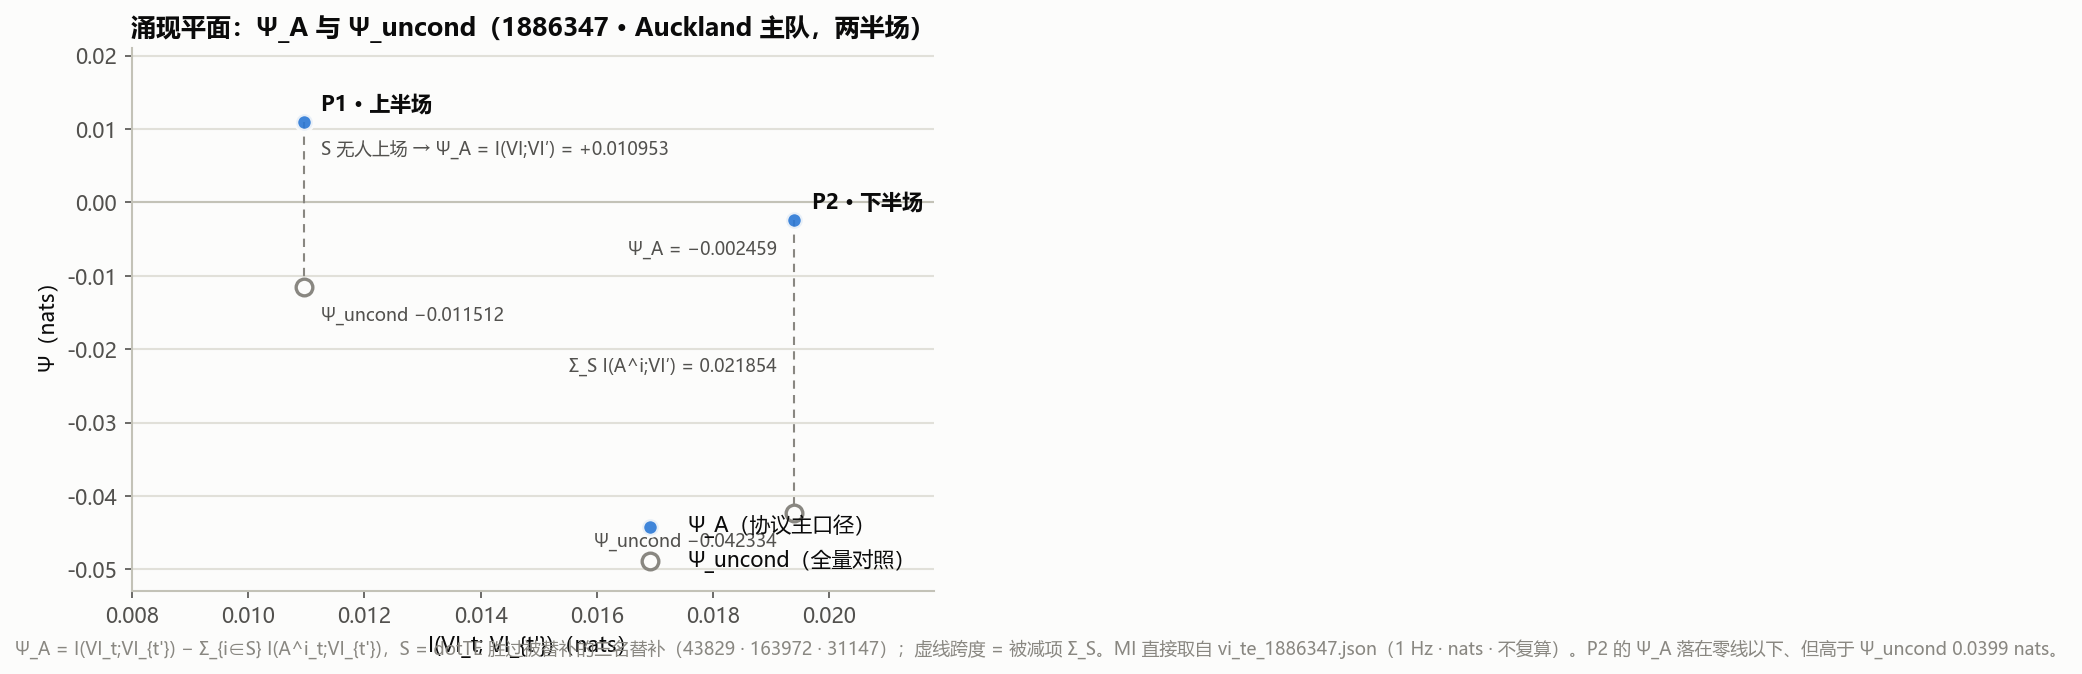
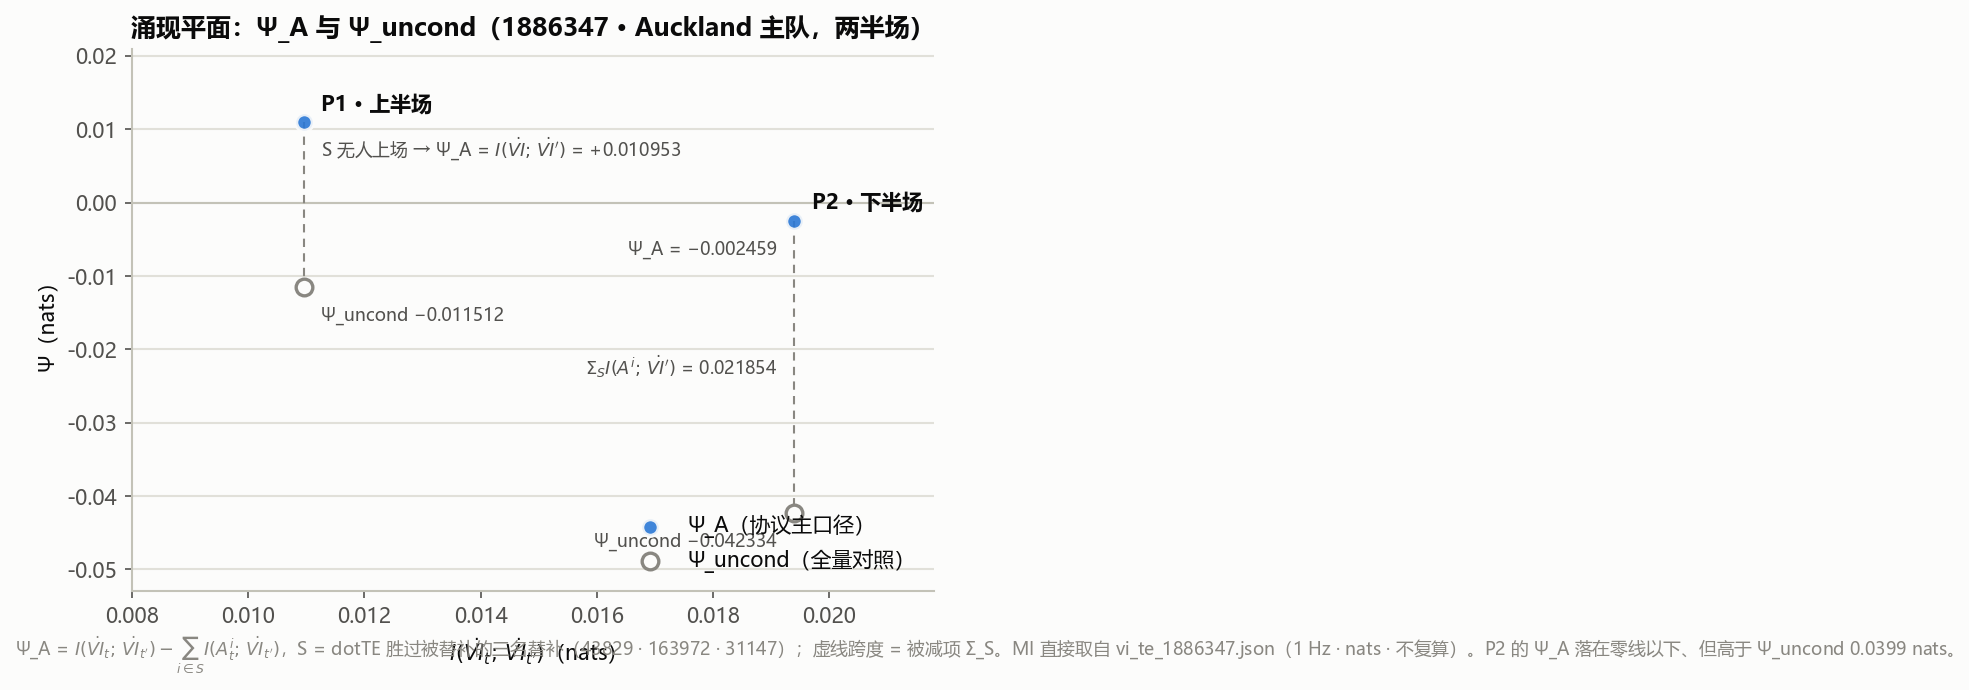
Add Pereira et al. 2021 citation and dot the VI in causal-emergence formulas
- README: cite Pereira et al. 2021 (Chaos, Solitons & Fractals 152:111356, DOI linked),
  the source of Variation of Information; rename the macro variable to information
  variation rate $\dot{VI}$ in Goal and the $\Psi_A(\dot{VI})$ bridge formula
- PROTOCOL sec.15: $\Psi_A(\dot{VI}) := I(\dot{VI}_t;\dot{VI}_{t'}) - \sum_{i\in S}
  I(A^i_t;\dot{VI}_{t'})$, terminology note (data files keep identifier VI), mermaid
- sub_gain.py: dotted template formulas + terminology note + visualization section
  now script-generated; regenerate sub_gain_report.md (numbers unchanged:
  P2 = 0.019395 - 0.021854 = -0.002459 nats)
- sub_figures.py: figure formulas via matplotlib mathtext ($\dot{VI}$), regenerate
  sub1/sub4 PNGs; pipeline_report.md dotted accordingly

diff --git a/te_emergence/sub_figures.py b/te_emergence/sub_figures.py
@@ -1,4 +1,4 @@
-"""dotTE / Ψ_A(VI) 管线结果图（sub1–sub4，PNG，随仓库发布）。
+"""dotTE / Ψ_A(V̇I) 管线结果图（sub1–sub4，PNG，随仓库发布）。
 
 与 te_emergence.figures 同一设计系统：SURFACE/INK 墨色 token、发丝 y 网格、
 ≥8px 标记 + 2px 表面环、2px 线、文本一律墨色 token（不用序列色）、
@@ -12,10 +12,10 @@
 - results/vi_te_1886347.json           halves.home|{1,2}.psi（nats）
 
 图：
-- sub1_emergence_plane   Ψ vs I(VI_t;VI_{t'})：Ψ_A 主口径 vs Ψ_uncond 全量对照（P1/P2）
+- sub1_emergence_plane   Ψ vs I(V̇I_t;V̇I_{t'})：Ψ_A 主口径 vs Ψ_uncond 全量对照（P1/P2）
 - sub2_dot_te_dumbbell   3 换人对哑铃：替补 vs 被替补 dotTE（bits/min）+ Δ
 - sub3_pair_scatter      42 有效对 TE_eff vs 源在场分钟（替补/被替补着色 + 短窗区标注）
-- sub4_psi_waterfall     Ψ_A 瀑布分解：i_macro − Σ_S I(A^i;VI')（P1/P2 两面板）
+- sub4_psi_waterfall     Ψ_A 瀑布分解：i_macro − Σ_S I(A^i;V̇I′）（P1/P2 两面板）
 
 用法：
     python -m te_emergence.sub_figures \
@@ -66,7 +66,7 @@ def _save(fig, out_dir: Path, name: str) -> Path:
 
 # ------------------------------------------------------------------ sub1 涌现平面
 def sub1_emergence_plane(psi: dict, out_dir: Path) -> Path:
-    """Ψ vs I(VI_t;VI_{t'})：每半场一个点，Ψ_A（主口径）与 Ψ_uncond（对照）成对。"""
+    """Ψ vs I(V̇I_t;V̇I_{t'})：每半场一个点，Ψ_A（主口径）与 Ψ_uncond（对照）成对。"""
     fig, ax = plt.subplots(figsize=(6.9, 4.7))
     ax.axhline(0, color=BASE, linewidth=1.0)
 
@@ -89,7 +89,7 @@ def sub1_emergence_plane(psi: dict, out_dir: Path) -> Path:
 
     ax.text(xs[0] + 0.0003, ya[0] + 0.0016, "P1 · 上半场", color=INK,
             fontweight="bold", fontsize=10)
-    ax.text(xs[0] + 0.0003, ya[0] - 0.0046, "S 无人上场 → Ψ_A = I(VI;VI′) = +0.010953",
+    ax.text(xs[0] + 0.0003, ya[0] - 0.0046, r"S 无人上场 → Ψ_A = $I(\dot{VI};\,\dot{VI}')$ = +0.010953",
             color=INK2, fontsize=8.5)
     ax.text(xs[0] + 0.0003, yu[0] - 0.0046, "Ψ_uncond −0.011512",
             color=INK2, fontsize=8.5)
@@ -97,20 +97,20 @@ def sub1_emergence_plane(psi: dict, out_dir: Path) -> Path:
             fontweight="bold", fontsize=10)
     ax.text(xs[1] - 0.0003, ya[1] - 0.0046, "Ψ_A = −0.002459",
             color=INK2, fontsize=8.5, ha="right")
-    ax.text(xs[1] - 0.0003, (ya[1] + yu[1]) / 2, "Σ_S I(A^i;VI′) = 0.021854",
+    ax.text(xs[1] - 0.0003, (ya[1] + yu[1]) / 2, r"$\Sigma_S I(A^i;\,\dot{VI}')$ = 0.021854",
             color=INK2, fontsize=8.5, va="center", ha="right")
     ax.text(xs[1] - 0.0003, yu[1] - 0.0046, "Ψ_uncond −0.042334",
             color=INK2, fontsize=8.5, ha="right")
 
     ax.set_xlim(0.0080, 0.0218)
     ax.set_ylim(-0.0530, 0.0210)
-    ax.set_xlabel("I(VI_t; VI_{t'})（nats）")
+    ax.set_xlabel(r"$I(\dot{VI}_t;\,\dot{VI}_{t'})$（nats）")
     ax.set_ylabel("Ψ（nats）")
     ax.set_title("涌现平面：Ψ_A 与 Ψ_uncond（1886347 · Auckland 主队，两半场）")
     ax.legend(loc="lower right", frameon=False)
     _style_ax(ax)
     fig.text(0.012, 0.02,
-             "Ψ_A = I(VI_t;VI_{t'}) − Σ_{i∈S} I(A^i_t;VI_{t'})，S = dotTE 胜过被替补的"
+             r"Ψ_A = $I(\dot{VI}_t;\,\dot{VI}_{t'}) - \sum_{i\in S} I(A^i_t;\,\dot{VI}_{t'})$，S = dotTE 胜过被替补的"
              "三名替补（43829 · 163972 · 31147）；虚线跨度 = 被减项 Σ_S。MI 直接取自 "
              "vi_te_1886347.json（1 Hz · nats · 不复算）。P2 的 Ψ_A 落在零线以下、"
              "但高于 Ψ_uncond 0.0399 nats。",
@@ -201,9 +201,9 @@ def sub3_pair_scatter(valid: pd.DataFrame, out_dir: Path) -> Path:
 
 # ------------------------------------------------------------------ sub4 Ψ_A 瀑布
 def sub4_psi_waterfall(psi: dict, out_dir: Path) -> Path:
-    """Ψ_A 减法分解（P1/P2 两面板，共享 y）：i_macro − Σ_S I(A^i;VI′) = Ψ_A。"""
+    """Ψ_A 减法分解（P1/P2 两面板，共享 y）：i_macro − Σ_S I(A^i;V̇I′) = Ψ_A。"""
     fig, axes = plt.subplots(1, 2, figsize=(10.8, 4.6), sharey=True)
-    fig.suptitle("Ψ_A(VI) 瀑布分解：I(VI_t;VI_{t'}) − Σ_{i∈S} I(A^i_t;VI_{t'})（nats）",
+    fig.suptitle(r"$\Psi_A(\dot{VI})$ 瀑布分解：$I(\dot{VI}_t;\,\dot{VI}_{t'}) - \sum_{i\in S} I(A^i_t;\,\dot{VI}_{t'})$（nats）",
                  y=1.02)
     subs_order = [43829, 163972, 31147]
     panels = [("P1 · 上半场（S 无人上场）", "home|1"),
@@ -217,7 +217,7 @@ def sub4_psi_waterfall(psi: dict, out_dir: Path) -> Path:
         psi_a = im - sum(contribs)
         heights = [im] + [-c for c in contribs] + [psi_a]
         colors = [BLUE] + [ORANGE] * len(contribs) + [AQUA]
-        labels = ["I(VI;VI′)"] + [f"{_NAME[s]}\n{s}" for s in subs_order] + ["Ψ_A"]
+        labels = [r"$I(\dot{VI};\,\dot{VI}')$"] + [f"{_NAME[s]}\n{s}" for s in subs_order] + ["Ψ_A"]
 
         ax.set_ylim(*ylim)
         ax.axhline(0, color=BASE, linewidth=1.0)
@@ -241,14 +241,14 @@ def sub4_psi_waterfall(psi: dict, out_dir: Path) -> Path:
 
     axes[0].set_ylabel("nats")
     axes[1].legend(handles=[
-        Patch(facecolor=BLUE, label="I(VI_t;VI_{t'}) 总 MI"),
-        Patch(facecolor=ORANGE, label="S 成员 I(A^i_t;VI_{t'})（被减）"),
+        Patch(facecolor=BLUE, label=r"$I(\dot{VI}_t;\,\dot{VI}_{t'})$ 总 MI"),
+        Patch(facecolor=ORANGE, label=r"S 成员 $I(A^i_t;\,\dot{VI}_{t'})$（被减）"),
         Patch(facecolor=AQUA, label="Ψ_A 净额"),
     ], loc="upper right", frameon=False, fontsize=8.5)
     fig.text(0.012, 0.02,
              "P2：0.019395 − 0.003014 − 0.010100 − 0.008739 = −0.002459 nats；"
              "虚线 = Ψ_uncond 全量对照（P2 −0.042334，Ψ_A 相对其回升 +0.0399）。"
-             "P1 替补未上场，Ψ_A = I(VI;VI′)。MI 直接取自 vi_te_1886347.json，"
+             r"P1 替补未上场，Ψ_A = $I(\dot{VI};\,\dot{VI}')$。MI 直接取自 vi_te_1886347.json，"
              "本模块只做减法。",
              color=MUTED, fontsize=8.5)
     return _save(fig, out_dir, "sub4_psi_waterfall.png")
@@ -268,7 +268,7 @@ def make_figures(dot_te_csv: Path, summary_json: Path, vi_json: Path,
 
 
 if __name__ == "__main__":
-    ap = argparse.ArgumentParser(description="dotTE / Ψ_A(VI) 管线结果图（sub1–sub4）")
+    ap = argparse.ArgumentParser(description="dotTE / Ψ_A(V̇I) 管线结果图（sub1–sub4）")
     ap.add_argument("--dot-te", default="results/subs_te/dot_te.csv")
     ap.add_argument("--summary", default="results/subs_te/subs_te_summary.json")
     ap.add_argument("--vi-json", default="results/vi_te_1886347.json")

diff --git a/te_emergence/sub_gain.py b/te_emergence/sub_gain.py
@@ -1,10 +1,11 @@
-"""替补信息增益 → Ψ_A(VI)（GVRNN计算协议.txt 的换人桥接）。
+"""替补信息增益 → Ψ_A(V̇I)（GVRNN计算协议.txt 的换人桥接）。
 
 协议定义：
-    S   = { dotTE(ax') − dotTE(ax) > 0 }    （TE 上胜过首发的替补）
-    Ψ_A(VI) := I(VI_t; VI_{t'}) − Σ_{i∈S} I(A_t^i; VI_{t'})
+    S       = { 替补 p : dotTE(p) > dotTE(被替换首发(p)) }（TE 上胜过首发的替补）
+    Ψ_A(V̇I) := I(V̇I_t; V̇I_{t'}) − Σ_{i∈S} I(A^i_t; V̇I_{t'})
 
-其中 I(VI_t; VI_{t'}) 与每球员 I(A_t^i; VI_{t'}) 直接取自 vi-te 仓库
+其中 V̇I 为信息变差率（逐样本 Variation of Information，Pereira et al. 2021，
+vi-te 数据文件中记作 VI）；I(V̇I_t; V̇I_{t'}) 与每球员 I(A^i_t; V̇I_{t'}) 直接取自 vi-te 仓库
 run_all 产出的 vi_te_<match>.json → halves["home|1"/"home|2"].psi
 （i_macro_nats / per_player_mi_nats，1 Hz 全局口径），本模块只做减法，
 不复算任何 MI。替补只在比赛末段（下半场）出场 → 上半场 S 交集为空，
@@ -41,7 +42,7 @@ def load_psi(vi_json: Path, team: str = "home"):
 
 
 def psi_a(half: dict, winners: list) -> dict:
-    """Ψ_A(VI) = i_macro − Σ_{k∈S∩half} I(A^k; VI') for one half."""
+    """Ψ_A(V̇I) = i_macro − Σ_{k∈S∩half} I(A^k; V̇I′) for one half."""
     on_pitch = [w for w in winners if w in half["per_player_mi_nats"]]
     absent = [w for w in winners if w not in half["per_player_mi_nats"]]
     sub = {w: half["per_player_mi_nats"][w] for w in on_pitch}
@@ -71,17 +72,20 @@ def main(argv=None):
 
     res = {p: psi_a(psi[p], winners) for p in ("1", "2")}
     L = []
-    L.append("# Ψ_A(VI)：替补信息增益与比赛宏观动态的因果涌现（GVRNN 计算协议）\n")
+    L.append("# Ψ_A(V̇I)：替补信息增益与比赛宏观动态的因果涌现（GVRNN 计算协议）\n")
     L.append(f"- VI 数据：`{args.vi_json}`（home|1 / home|2，1 Hz，MI 单位 nats）\n"
              f"- dotTE 数据：`{args.subs_summary}`\n\n")
     L.append("## 1. 协议公式\n\n"
-             "$$S = \\{\\dot{TE}(ax') - \\dot{TE}(ax) > 0\\}$$\n\n"
-             "$$\\Psi_A(VI) := I(VI_t; VI_{t'}) - \\sum_{i \\in S} I(A_t^i; VI_{t'})$$\n\n"
-             "- `dotTE(p)`：p 对全部共同在场队友的 TE_eff 之和 ÷ 在场跟踪分钟"
+             "$$S = \\left\\{\\ \\text{sub}\\ p : \\dot{TE}(p) > \\dot{TE}(\\text{starter}(p))\\ \\right\\}$$\n\n"
+             "$$\\Psi_A(\\dot{VI}) := I(\\dot{VI}_t; \\dot{VI}_{t'}) - \\sum_{i \\in S} I(A^i_t; \\dot{VI}_{t'})$$\n\n"
+             "> 术语：宏观变量为**信息变差率** $\\dot{VI}$ （逐样本 Variation of Information，"
+             "Pereira et al. 2021）；vi-te 数据文件中记作 `VI`（i_macro / per_player_mi "
+             "字段），下文符号注解中的 `I(VI_t; VI_{t'})` 即 $I(\\dot{VI}_t; \\dot{VI}_{t'})$ 。\n\n"
+             "- `dotTE(p)`（带权成对转移熵 $\\dot{TE}$ ）：p 对全部共同在场队友的 TE_eff 之和 ÷ 在场跟踪分钟"
              "（见 dot_te_report.md）。\n"
              "- `S`：TE 上胜过所替换首发的**替补**集合。\n"
-             "- `I(VI_t; VI_{t'})`：i_macro_nats——全队 VI 链的一步自预测信息。\n"
-             "- `I(A_t^i; VI_{t'})`：per_player_mi_nats——球员 i 对 VI 下一步的"
+             "- `I(VI_t; VI_{t'})`：i_macro_nats——全队信息变差率链的一步自预测信息。\n"
+             "- `I(A^i_t; VI_{t'})`：per_player_mi_nats——球员 i 对信息变差率下一步的"
              "互信息（vi-te 半场全局口径，不复算）。\n"
              "- 替补只在下半场出场 → 上半场 S 交集为空，Ψ_A(P1) = i_macro 原值。\n\n")
     L.append("## 2. S 判定（dotTE 差值）\n\n")
@@ -91,8 +95,8 @@ def main(argv=None):
         L.append(f"| {e['sub']} | {e['starter']} | {e['sub_dot_te']:.6f} | "
                  f"{e['starter_dot_te']:.6f} | {e['diff']:+.6f} |\n")
     L.append(f"\n**S = {winners if winners else '∅（无替补胜出）'}**\n\n")
-    L.append("## 3. Ψ_A(VI) 计算\n\n")
-    L.append("| 半场 | i_macro | S 中在场者 | 减项合计 | **Ψ_A(VI)** | "
+    L.append("## 3. Ψ_A(V̇I) 计算\n\n")
+    L.append("| 半场 | i_macro | S 中在场者 | 减项合计 | **Ψ_A(V̇I)** | "
              "全量 Ψ_uncond（对照） | Δ(Ψ_A − Ψ) |\n"
              "|---|---|---|---|---|---|---|\n")
     for p in ("1", "2"):
@@ -118,8 +122,18 @@ def main(argv=None):
              "- `per_player_mi`（= I(A^i_t; VI_{t'})）：球员 i 与 VI 下一步的"
              "无条件互信息，nats/步，按半场全局计算。\n"
              "- `Ψ_uncond`：全量口径涌现 = i_macro − Σ_{10 人} MI（vi 项目 Task 2）。\n"
-             "- `Ψ_A(VI)`：协议口径 = i_macro − Σ_{i∈S} MI。\n"
+             "- `Ψ_A(V̇I)`：协议口径 = i_macro − Σ_{i∈S} MI。\n"
              "- 单位：nats（×1.4427 → bits）。\n")
+    L.append("\n## 6. 结果可视化\n\n"
+             "（由 `te_emergence/sub_figures.py` 生成，`results/subs_te/figures/`，"
+             "与 `te_emergence/figures` 同一设计系统）\n\n"
+             "- **图 1 · 涌现平面**：Ψ_A（主口径，蓝）与 Ψ_uncond（全量对照，灰）"
+             "对 I(V̇I_t; V̇I_{t'})，P1/P2 两半场，虚线跨度 = Σ_S I(A^i; V̇I′)\n\n"
+             "  ![sub1 涌现平面](figures/sub1_emergence_plane.png)\n\n"
+             "- **图 4 · Ψ_A 瀑布**：I(V̇I_t; V̇I_{t'}) − Σ_{i∈S} I(A^i_t; V̇I_{t'}) "
+             "的减法分解（P1/P2 两面板，nats），虚线 = Ψ_uncond 对照\n\n"
+             "  ![sub4 Ψ_A 瀑布](figures/sub4_psi_waterfall.png)\n\n"
+             "（四张图的汇总版见 [pipeline_report.md](pipeline_report.md)）\n")
     out = Path(args.out)
     out.parent.mkdir(parents=True, exist_ok=True)
     out.write_text("".join(L), encoding="utf-8")

diff --git a/results/subs_te/sub_gain_report.md b/results/subs_te/sub_gain_report.md
@@ -1,17 +1,19 @@
-# Ψ_A(VI)：替补信息增益与比赛宏观动态的因果涌现（GVRNN 计算协议）
-- VI 数据：`D:\gvrnn-te\results\vi_te_1886347.json`（home|1 / home|2，1 Hz，MI 单位 nats）
-- dotTE 数据：`D:\gvrnn-te\results\subs_te\subs_te_summary.json`
+# Ψ_A(V̇I)：替补信息增益与比赛宏观动态的因果涌现（GVRNN 计算协议）
+- VI 数据：`results\vi_te_1886347.json`（home|1 / home|2，1 Hz，MI 单位 nats）
+- dotTE 数据：`results\subs_te\subs_te_summary.json`
 
 ## 1. 协议公式
 
-$$S = \{\dot{TE}(ax') - \dot{TE}(ax) > 0\}$$
+$$S = \left\{\ \text{sub}\ p : \dot{TE}(p) > \dot{TE}(\text{starter}(p))\ \right\}$$
 
-$$\Psi_A(VI) := I(VI_t; VI_{t'}) - \sum_{i \in S} I(A_t^i; VI_{t'})$$
+$$\Psi_A(\dot{VI}) := I(\dot{VI}_t; \dot{VI}_{t'}) - \sum_{i \in S} I(A^i_t; \dot{VI}_{t'})$$
 
-- `dotTE(p)`：p 对全部共同在场队友的 TE_eff 之和 ÷ 在场跟踪分钟（见 dot_te_report.md）。
+> 术语：宏观变量为**信息变差率** $\dot{VI}$ （逐样本 Variation of Information，Pereira et al. 2021）；vi-te 数据文件中记作 `VI`（i_macro / per_player_mi 字段），下文符号注解中的 `I(VI_t; VI_{t'})` 即 $I(\dot{VI}_t; \dot{VI}_{t'})$ 。
+
+- `dotTE(p)`（带权成对转移熵 $\dot{TE}$ ）：p 对全部共同在场队友的 TE_eff 之和 ÷ 在场跟踪分钟（见 dot_te_report.md）。
 - `S`：TE 上胜过所替换首发的**替补**集合。
-- `I(VI_t; VI_{t'})`：i_macro_nats——全队 VI 链的一步自预测信息。
-- `I(A_t^i; VI_{t'})`：per_player_mi_nats——球员 i 对 VI 下一步的互信息（vi-te 半场全局口径，不复算）。
+- `I(VI_t; VI_{t'})`：i_macro_nats——全队信息变差率链的一步自预测信息。
+- `I(A^i_t; VI_{t'})`：per_player_mi_nats——球员 i 对信息变差率下一步的互信息（vi-te 半场全局口径，不复算）。
 - 替补只在下半场出场 → 上半场 S 交集为空，Ψ_A(P1) = i_macro 原值。
 
 ## 2. S 判定（dotTE 差值）
@@ -24,9 +26,9 @@ $$\Psi_A(VI) := I(VI_t; VI_{t'}) - \sum_{i \in S} I(A_t^i; VI_{t'})$$
 
 **S = [43829, 163972, 31147]**
 
-## 3. Ψ_A(VI) 计算
+## 3. Ψ_A(V̇I) 计算
 
-| 半场 | i_macro | S 中在场者 | 减项合计 | **Ψ_A(VI)** | 全量 Ψ_uncond（对照） | Δ(Ψ_A − Ψ) |
+| 半场 | i_macro | S 中在场者 | 减项合计 | **Ψ_A(V̇I)** | 全量 Ψ_uncond（对照） | Δ(Ψ_A − Ψ) |
 |---|---|---|---|---|---|---|
 | P1 | 0.01095 | ∅ | 0.00000 | **0.01095** | -0.01151 | +0.02247 |
 | P2 | 0.01940 | [43829, 163972, 31147] | 0.02185 | **-0.00246** | -0.04233 | +0.03987 |
@@ -47,18 +49,18 @@ $$\Psi_A(VI) := I(VI_t; VI_{t'}) - \sum_{i \in S} I(A_t^i; VI_{t'})$$
 - `i_macro`（= I(VI_t; VI_{t'})）：全队 VI 自预测互信息，nats/步。
 - `per_player_mi`（= I(A^i_t; VI_{t'})）：球员 i 与 VI 下一步的无条件互信息，nats/步，按半场全局计算。
 - `Ψ_uncond`：全量口径涌现 = i_macro − Σ_{10 人} MI（vi 项目 Task 2）。
-- `Ψ_A(VI)`：协议口径 = i_macro − Σ_{i∈S} MI。
+- `Ψ_A(V̇I)`：协议口径 = i_macro − Σ_{i∈S} MI。
 - 单位：nats（×1.4427 → bits）。
 
 ## 6. 结果可视化
 
 （由 `te_emergence/sub_figures.py` 生成，`results/subs_te/figures/`，与 `te_emergence/figures` 同一设计系统）
 
-- **图 1 · 涌现平面**：Ψ_A（主口径，蓝）与 Ψ_uncond（全量对照，灰）对 I(VI_t;VI_{t'})，P1/P2 两半场，虚线跨度 = Σ_S I(A^i;VI′)
+- **图 1 · 涌现平面**：Ψ_A（主口径，蓝）与 Ψ_uncond（全量对照，灰）对 I(V̇I_t; V̇I_{t'})，P1/P2 两半场，虚线跨度 = Σ_S I(A^i; V̇I′)
 
   ![sub1 涌现平面](figures/sub1_emergence_plane.png)
 
-- **图 4 · Ψ_A 瀑布**：I(VI_t;VI_{t'}) − Σ_{i∈S} I(A^i_t;VI_{t'}) 的减法分解（P1/P2 两面板，nats），虚线 = Ψ_uncond 对照
+- **图 4 · Ψ_A 瀑布**：I(V̇I_t; V̇I_{t'}) − Σ_{i∈S} I(A^i_t; V̇I_{t'}) 的减法分解（P1/P2 两面板，nats），虚线 = Ψ_uncond 对照
 
   ![sub4 Ψ_A 瀑布](figures/sub4_psi_waterfall.png)
 

diff --git a/README.md b/README.md
@@ -14,7 +14,7 @@
 > **Version**: 1.2.0
 
 > **Goal**: 从 SkillCorner 足球轨迹中提取 GVRNN 球员潜链，计算替补/被替补球员的
-> 带权成对转移熵（记为 $\dot{TE}$ ），并桥接 VI 因果涌现的 $\Psi_A(VI)$ 下行指标——形成「潜链 → 信息流 → 宏观涌现」的完整管线。
+> 带权成对转移熵（记为 $\dot{TE}$ ），并桥接信息变差率 $\dot{VI}$ 因果涌现的 $\Psi_A(\dot{VI})$ 下行指标——形成「潜链 → 信息流 → 宏观涌现」的完整管线。
 
 ## 📖 Introduction
 
@@ -33,17 +33,17 @@ $$\dot{TE}(p) = \frac{1}{t_p}\sum_{q \in \mathcal{T}(p)} TE_{\mathrm{eff}}(p \to
 
 其中 $\mathcal{T}(p)$ 为 p 的共同在场队友（排除自己与换人伙伴）， $t_p$ 为 p 的在场跟踪分钟，`sub` / `starter` 分别指替补与被其替换的首发（协议 §15，`run_subs_te.py`）。
 
-4. **Ψ_A(VI) 桥接**：
+4. **Ψ_A 桥接**（宏观变量为信息变差率 $\dot{VI}$ ）：
 
-$$\Psi_A(VI) = I\left(VI_t;\, VI_{t'}\right) - \sum_{i \in S} I\left(A^i_t;\, VI_{t'}\right)$$
+$$\Psi_A(\dot{VI}) = I\left(\dot{VI}_t;\, \dot{VI}_{t'}\right) - \sum_{i \in S} I\left(A^i_t;\, \dot{VI}_{t'}\right)$$
 
-其中 MI 直接取自 vi-te 产出，本仓库只做减法（`te_emergence/sub_gain.py`）。
+其中信息变差率 $\dot{VI}$ 即逐样本 Variation of Information（Pereira et al. 2021）；MI 直接取自 vi-te 产出，本仓库只做减法（`te_emergence/sub_gain.py`）。
 
 5. **研究产出**：m2 实验（比赛 1886347 · Auckland 主队）——`dot_te.csv`、  
 `dot_te_report.md`、`sub_gain_report.md`、4 张管线结果图  
 （`results/subs_te/figures/`）、协议流程图（PROTOCOL.md §15）。
 
-- 方法学协议见 [PROTOCOL.md](PROTOCOL.md)（估计器、代理检验、守卫，含 $\dot{TE}$ 与 $\Psi_A(VI)$ 的定义）
+- 方法学协议见 [PROTOCOL.md](PROTOCOL.md)（估计器、代理检验、守卫，含 $\dot{TE}$ 与 $\Psi_A(\dot{VI})$ 的定义）
 - 高斯 TE 闭式推导见 [docs/te_gaussian_explained.md](docs/te_gaussian_explained.md)
 - VI 桥接的 10 场成果报告由 `te_emergence/report.py` 生成（`results/vi_te_report.md`）
 
@@ -117,7 +117,7 @@ python -m run_subs_te --latents artifacts/m2/latents.npz \
 python -m te_emergence.pool        # 10 场汇总表 + 统计检验（默认读 results/）
 python -m te_emergence.report      # vi_te_report.md 成果报告
 
-# 7. 替补信息增益 → Ψ_A(VI)（GVRNN 计算协议）
+# 7. 替补信息增益 → Ψ_A(V̇I)（GVRNN 计算协议）
 python -m te_emergence.sub_gain \
     --vi-json results/vi_te_1886347.json \
     --subs-summary results/subs_te/subs_te_summary.json \
@@ -161,3 +161,4 @@ python -m pytest tests/ -q     # 全部合成数据，无外部依赖
 - Schreiber 2000, "Measuring Information Transfer", PRL 85:461（转移熵）
 - Kraskov et al. 2004, PRE 69:066138 / Frenzel & Pompe 2007, PRL 99:204101（KSG）
 - Rosas et al. 2020, PLoS Comput Biol 16(12):e1008289（因果涌现框架）
+- Pereira et al. 2021, "The Soccer Game, Bit by Bit: An Information-Theoretic Analysis", Chaos, Solitons & Fractals 152:111356, DOI: [10.1016/j.chaos.2021.111356](https://doi.org/10.1016/j.chaos.2021.111356)（信息变差率 $\dot{VI}$ 的来源）

diff --git a/PROTOCOL.md b/PROTOCOL.md
@@ -206,14 +206,16 @@ p=0.005（eff ≈ 0.003–0.006 bits），z→phi 全口径 8/8 显著（live_on
 
 > 术语：**带权成对转移熵**（weighted pairwise transfer entropy）即「成对 TE 之和 ÷ 在场时间」，
 > 记为 $\dot{TE}$ ；代码与结果文件沿用标识 `dotTE`（如 `dot_te.csv`、`--dot-te`、`dot_te_report.md`）。
+> 宏观涌现变量为**信息变差率** $\dot{VI}$ （逐样本 Variation of Information，Pereira et al. 2021），
+> vi-te 数据文件中记作 `VI`（i_macro / per_player_mi 字段）。
 
 **协议口径**（依据 GVRNN计算协议.txt）：
 - 带权成对转移熵 $\dot{TE}(p) = \frac{1}{t_p}\sum_q TE_{\mathrm{eff}}(p \to q)$ ，其中 $t_p$ 为 p 的在场**跟踪**分钟（live 帧数 / 600）。
 - 目标集 = 模型内其余外场节点，**排除自己与换人伙伴**；无共同在场时段的对（n=0）
   标记 `skipped`、不进求和。
 - $S = \{ \text{sub}\ p : \dot{TE}(p) > \dot{TE}(\text{starter}(p)) \}$ ，`sub` 为替补、`starter` 为被其替换的首发。
-- $\Psi_A(VI) := I(VI_t;\, VI_{t'}) - \sum_{i \in S} I(A^i_t;\, VI_{t'})$ （`te_emergence/sub_gain.py`）：
-  $I(VI_t; VI_{t'})$ 与每球员 $I(A^i_t; VI_{t'})$ 直接取自 vi-te 的 vi_te_<match>.json
+- $\Psi_A(\dot{VI}) := I(\dot{VI}_t;\, \dot{VI}_{t'}) - \sum_{i \in S} I(A^i_t;\, \dot{VI}_{t'})$ （`te_emergence/sub_gain.py`）：
+  $I(\dot{VI}_t; \dot{VI}_{t'})$ 与每球员 $I(A^i_t; \dot{VI}_{t'})$ 直接取自 vi-te 的 vi_te_<match>.json
   （1 Hz、nats、半场全局口径），本模块只做减法、不复算。
 
 **模型设计（m2）**：GVRNN 固定 K=11 节点（10 外场 + 球），单模型单潜空间保证 $\dot{TE}$
@@ -248,6 +250,6 @@ flowchart TD
   G --> H{"S：带权成对转移熵(替补) − (首发) > 0 的替补<br/>43829 · 163972 · 31147 三名全胜"}
   G --> K["dot_te.csv · subs_te_summary.json · dot_te_report.md"]
   H --> I["te_emergence/sub_gain.py<br/>MI 直接取 vi_te_1886347.json（不复算）"]
-  I --> J["Ψ_A(VI) = I(VI_t;VI_{t'}) − Σ_{i∈S} I(A^i_t;VI_{t'})<br/>P1 = 0.010953 · P2 = −0.002459 nats<br/>对照 Ψ_uncond：P2 = −0.042334"]
+  I --> J["Ψ_A(V̇I) = I(V̇I_t;V̇I_{t'}) − Σ_{i∈S} I(A^i_t;V̇I_{t'})<br/>P1 = 0.010953 · P2 = −0.002459 nats<br/>对照 Ψ_uncond：P2 = −0.042334"]
   J --> L["sub_gain_report.md"]
 ```
